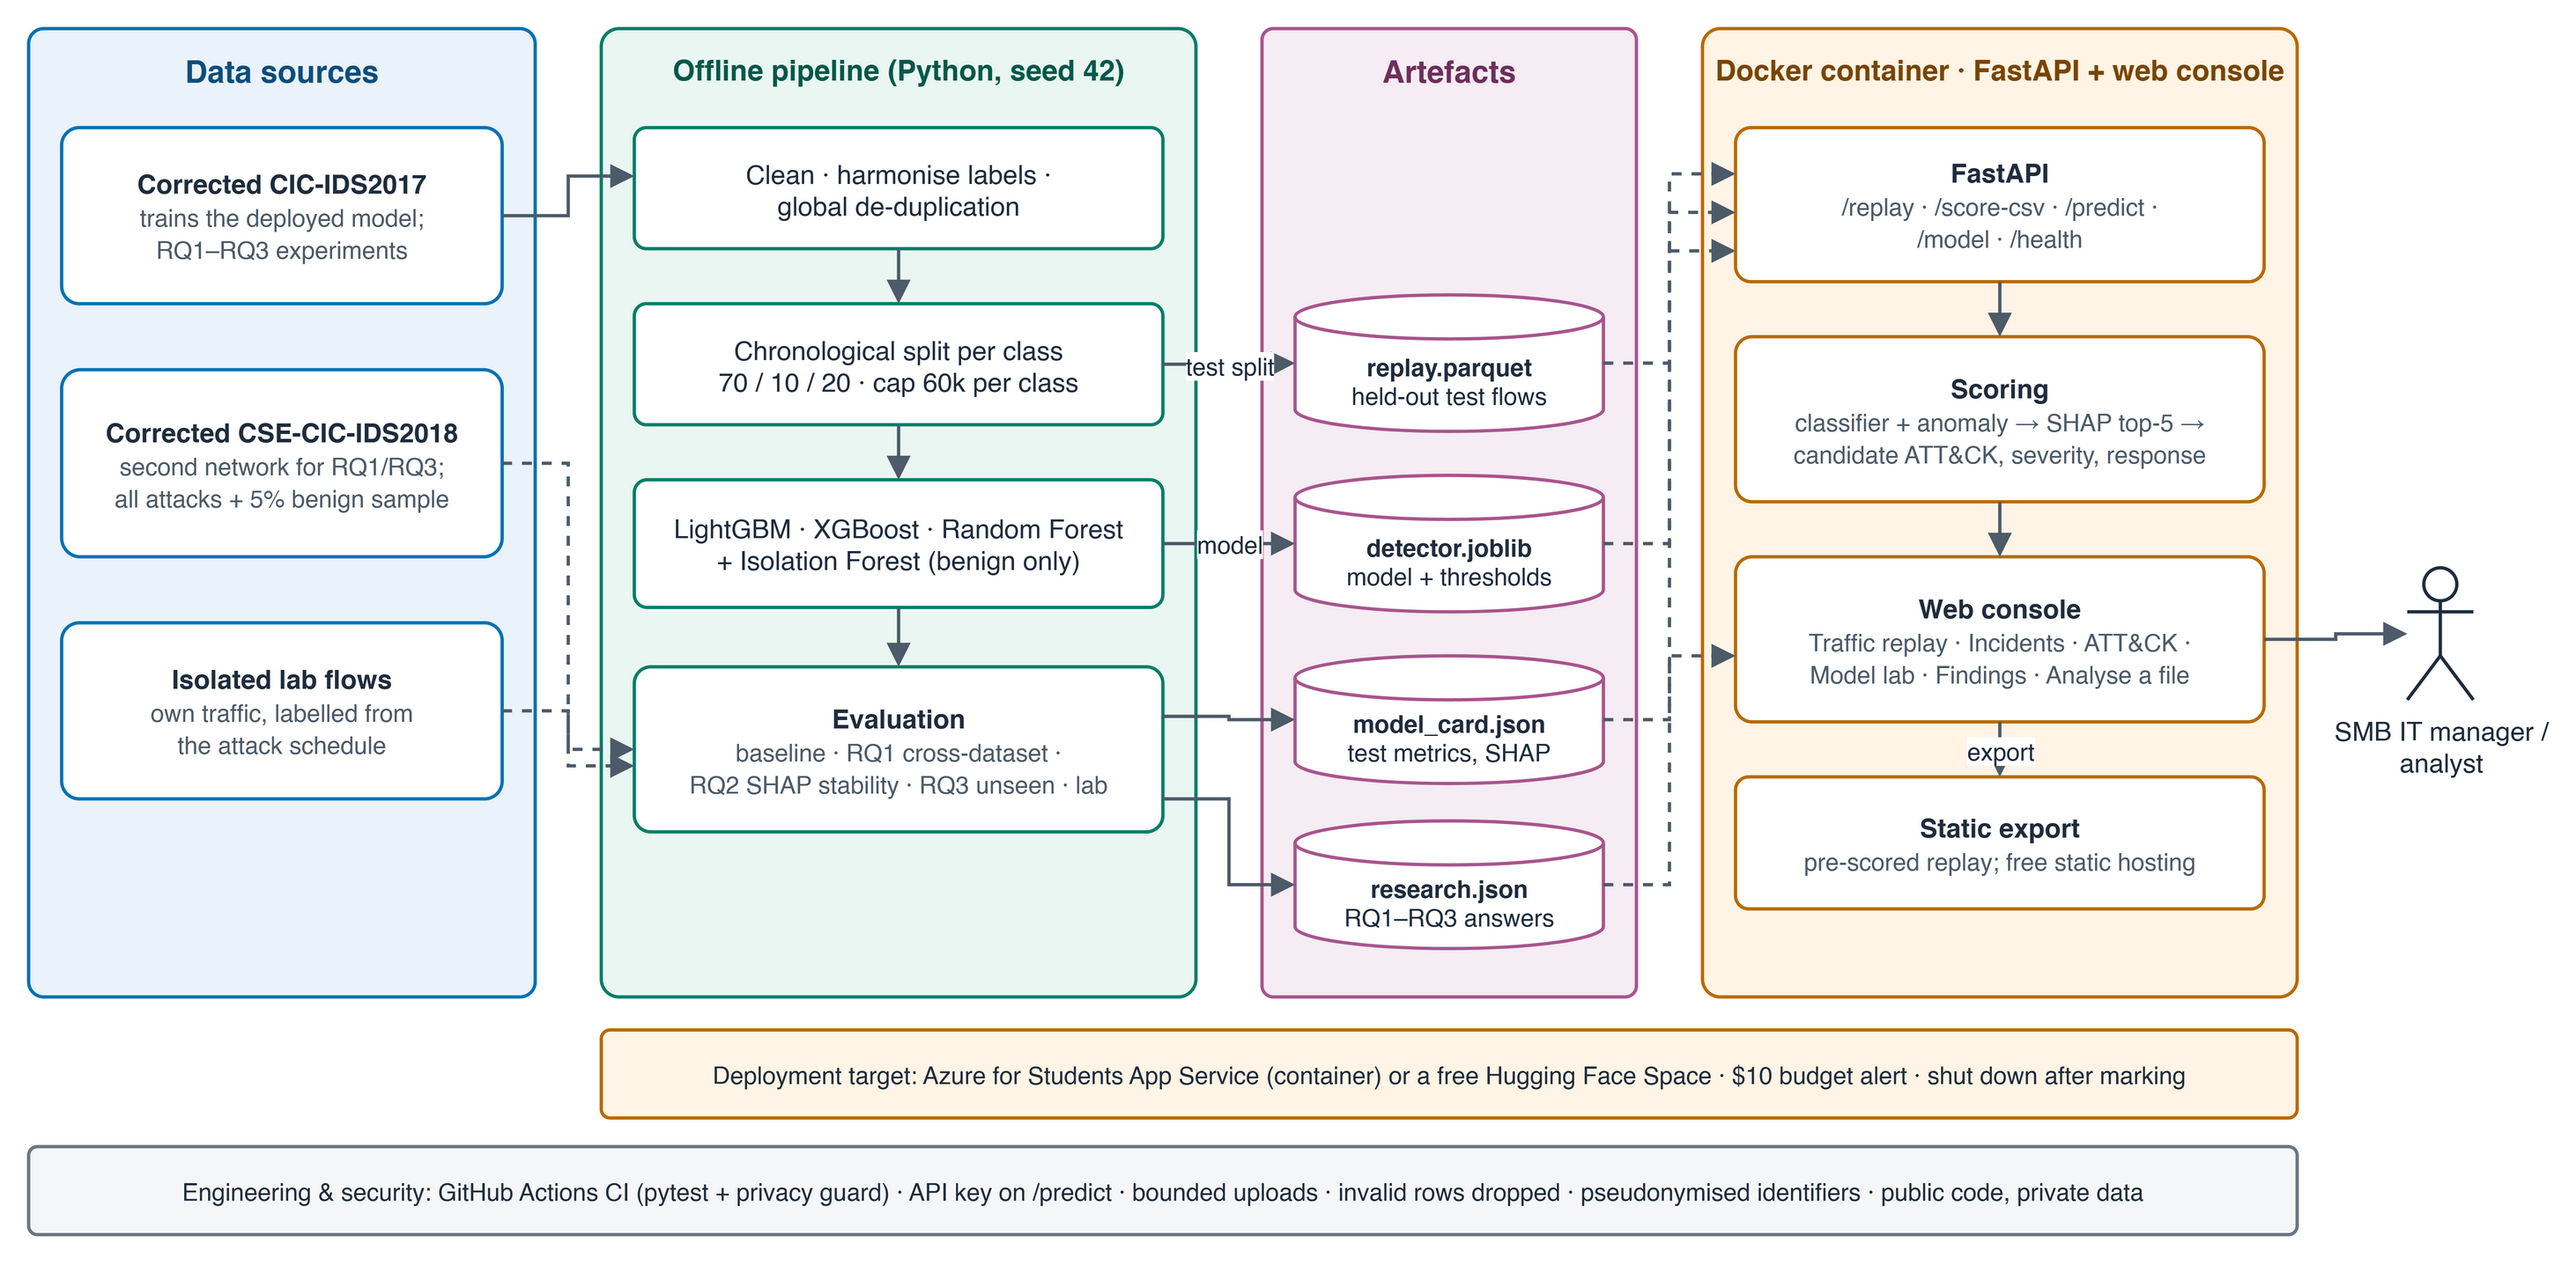
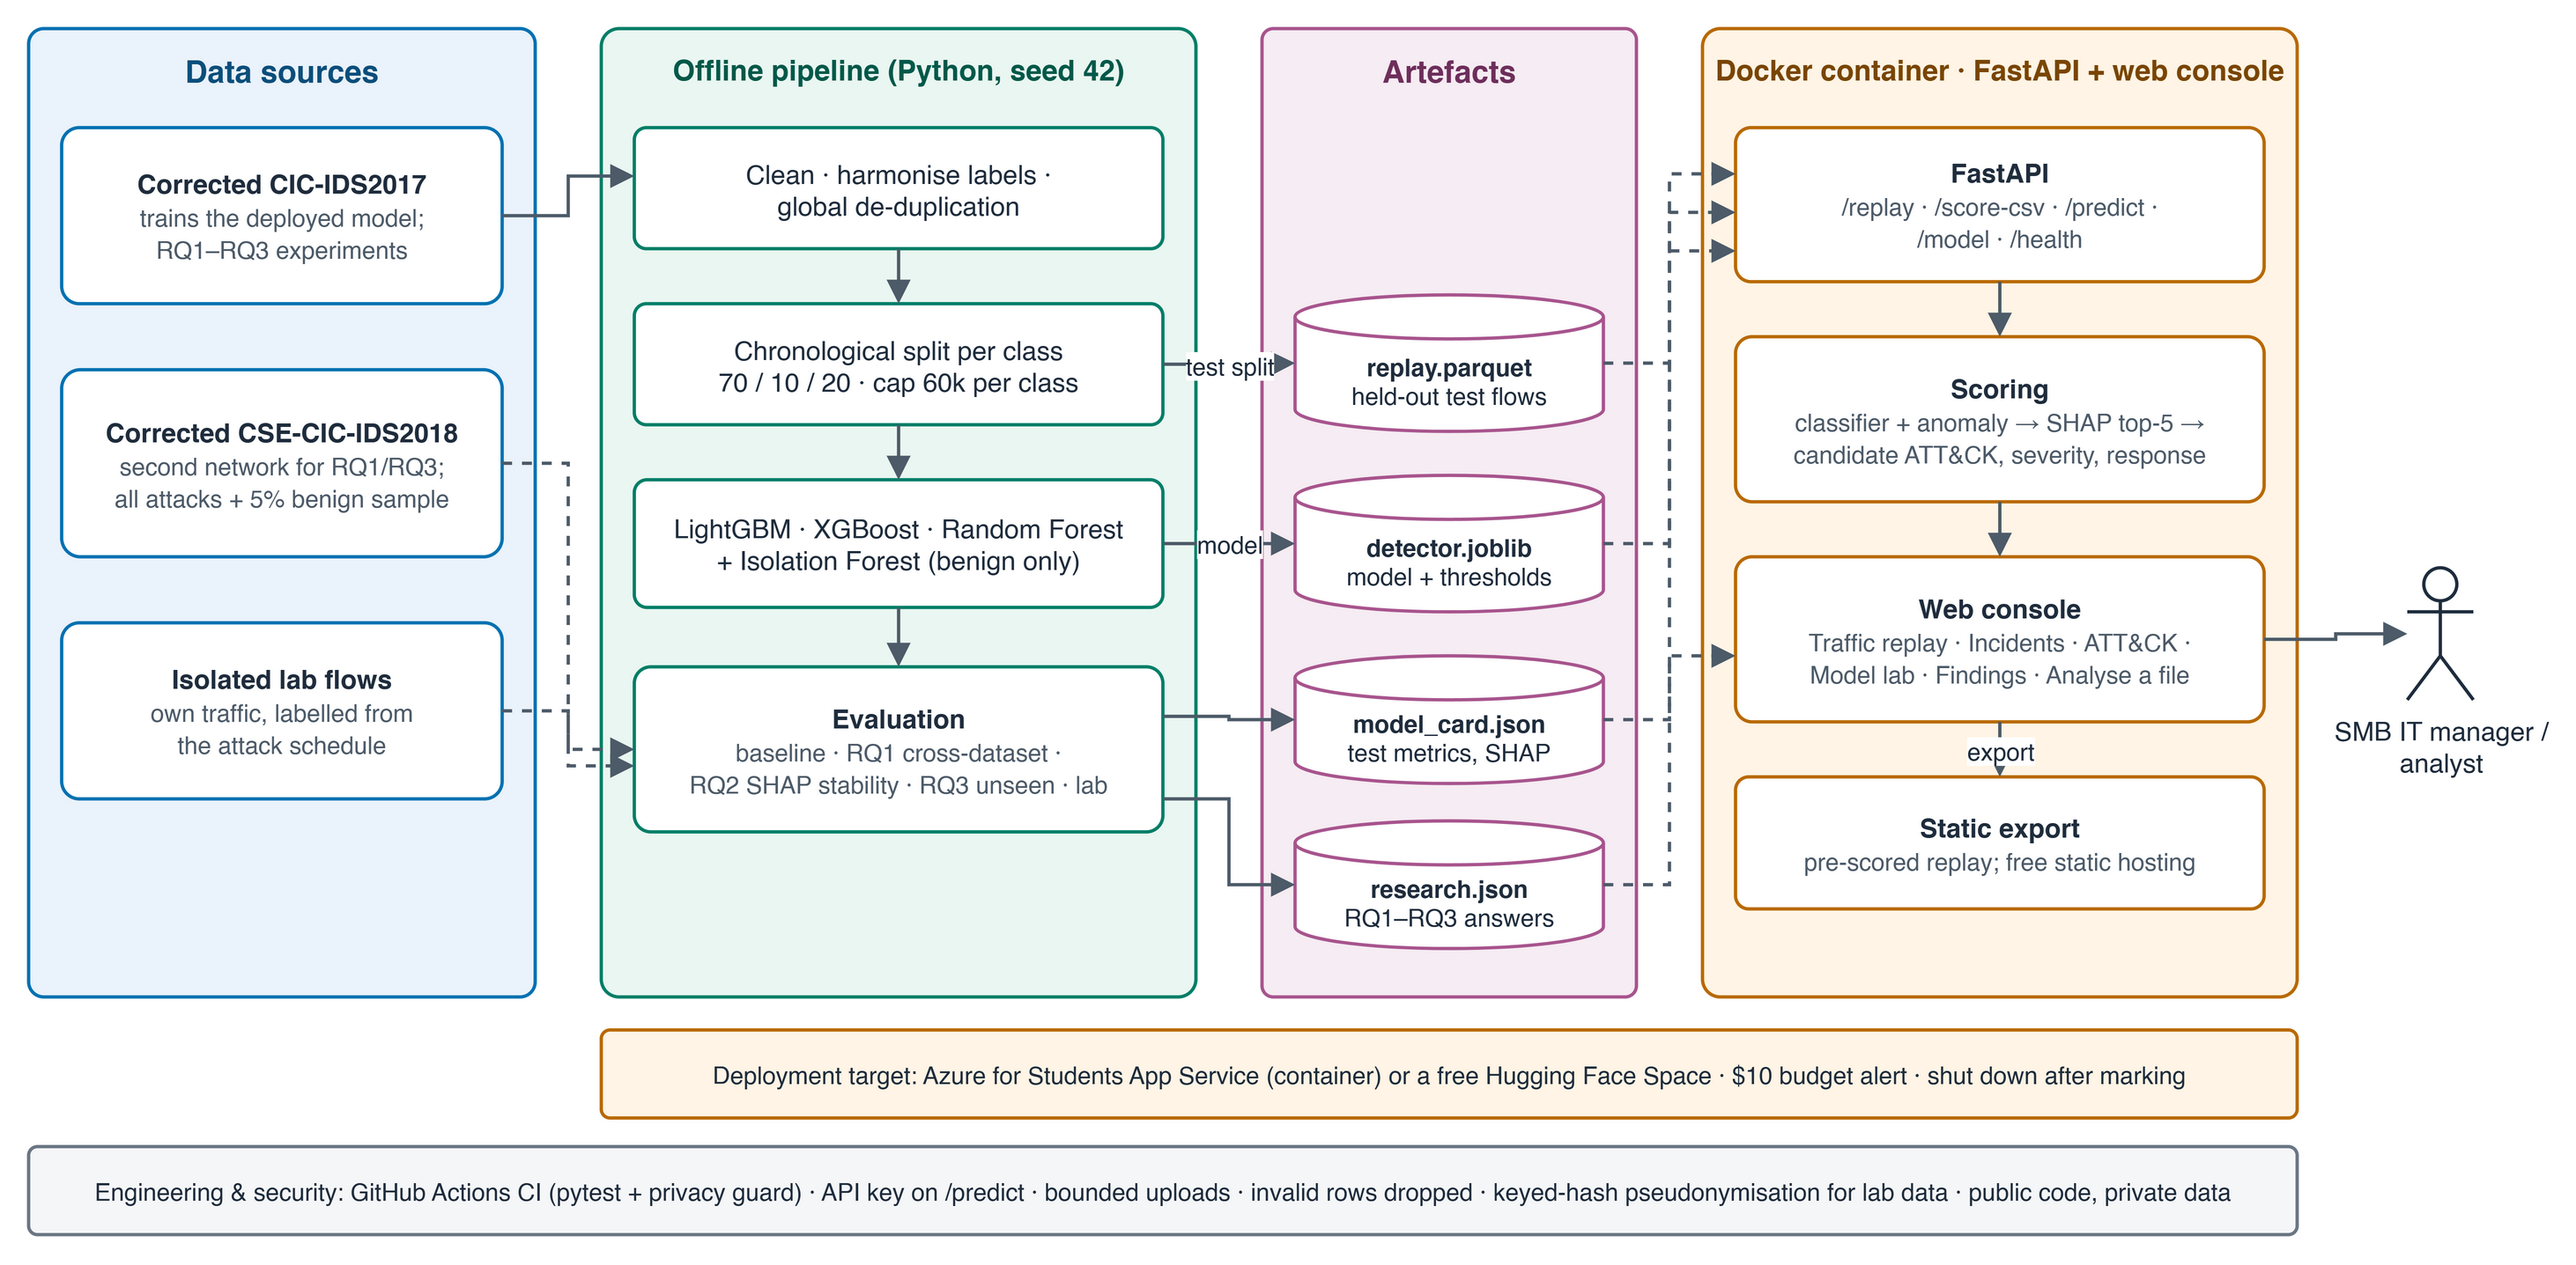
Architecture v2: pseudonymisation is for lab data (not yet applied in the console)

Changed region(s): [[0.0311, 0.9186, 0.8714, 0.9492]]

diff --git a/docs/diagrams/build_diagrams.py b/docs/diagrams/build_diagrams.py
@@ -323,7 +323,7 @@ def w7_architecture():
     d.box("Deployment target: Azure for Students App Service (container) or a free Hugging Face Space · $10 budget alert · "
           "shut down after marking", 280, 475, 770, 40, "orange", fill="#FFF4E5", size=11)
     d.box("Engineering &amp; security: GitHub Actions CI (pytest + privacy guard) · API key on /predict · bounded uploads · "
-          "invalid rows dropped · pseudonymised identifiers · public code, private data", 20, 528, 1030, 40, "grey", fill="#F5F6F8", size=11)
+          "invalid rows dropped · keyed-hash pseudonymisation for lab data · public code, private data", 20, 528, 1030, 40, "grey", fill="#F5F6F8", size=11)
     for s, y in ((s1, 0.4), (s2, 0.5), (s3, 0.6)):
         d.edge(s, p1 if s is s1 else p4, extra="" if s is s1 else "dashed=1;", exit=(1, 0.5), entry=(0, y) if s is s1 else (0, y))
     for a, c in ((p1, p2), (p2, p3), (p3, p4)):
